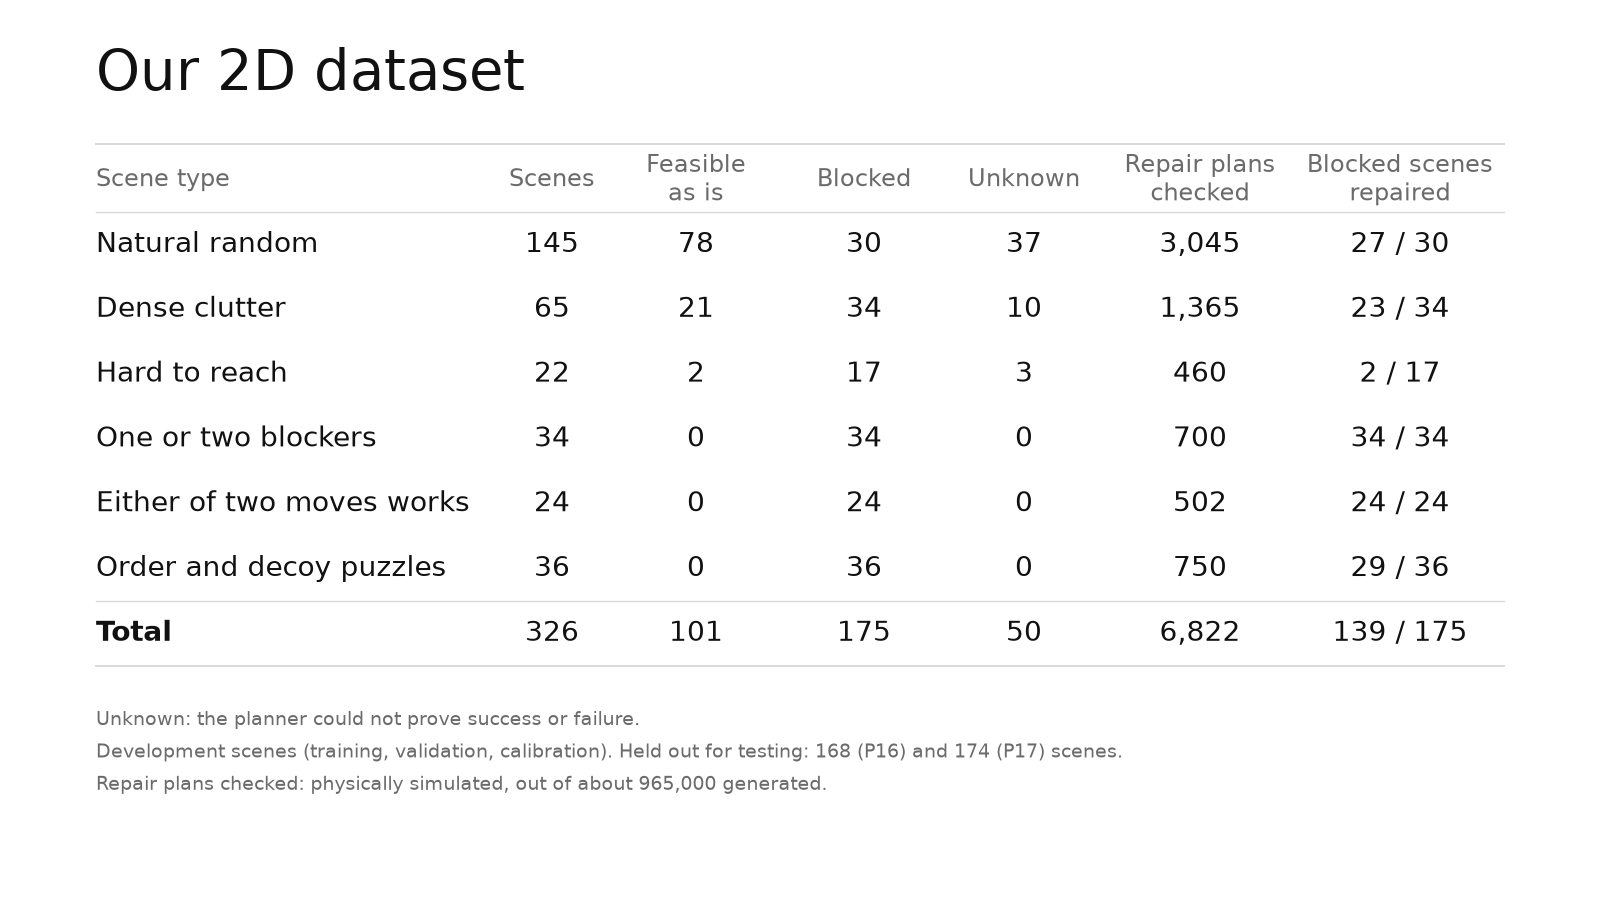
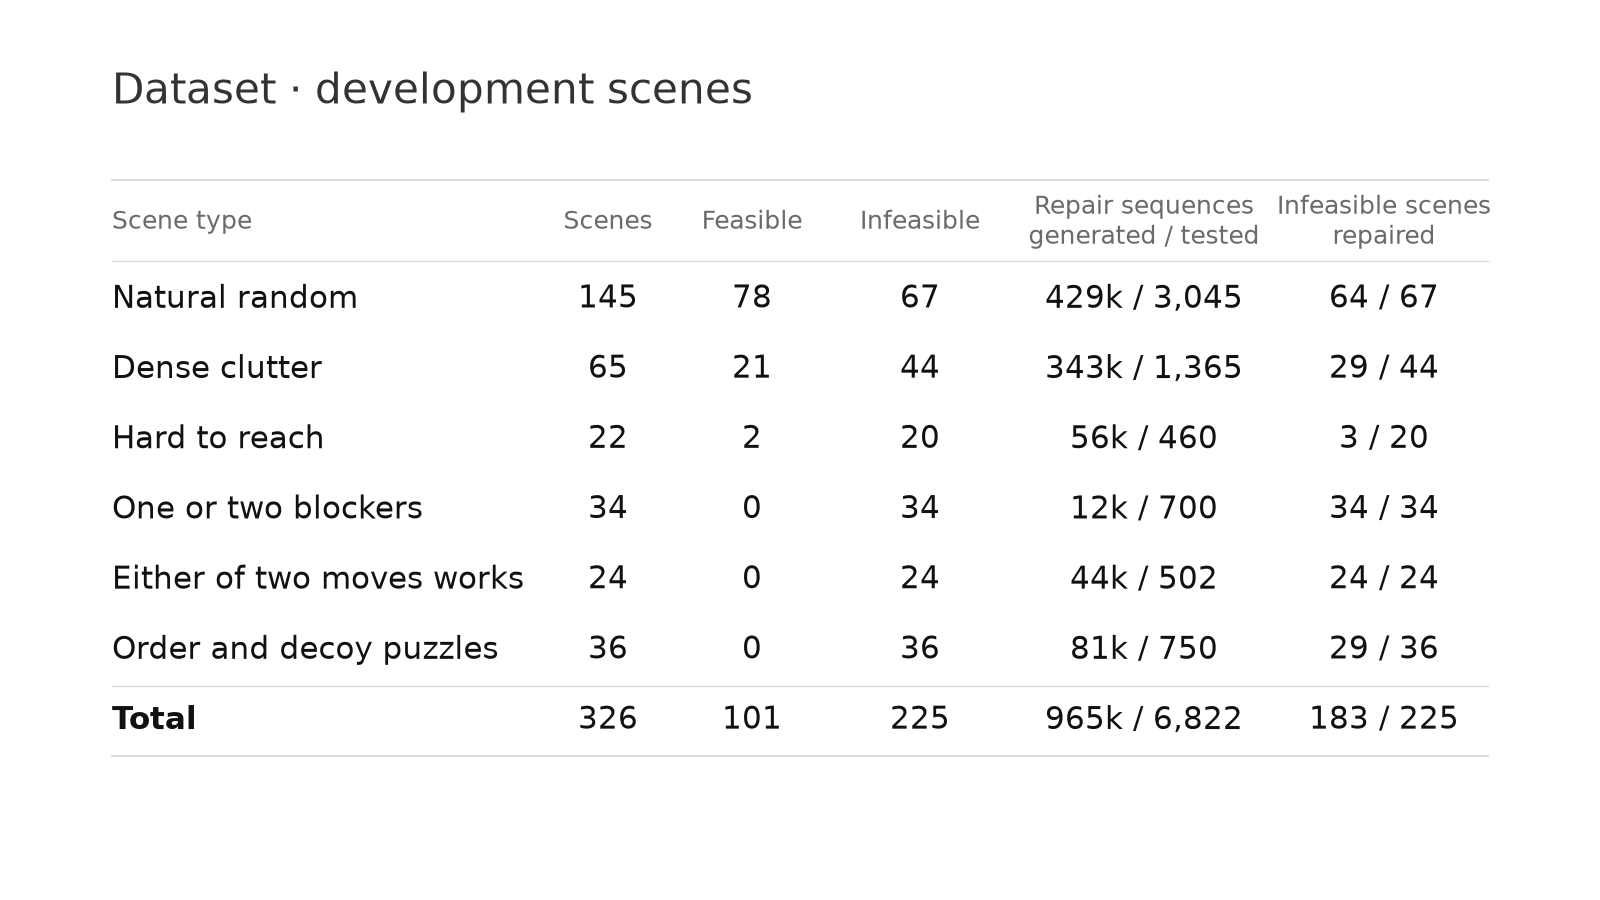
PoC-takeaway: operational feasible/infeasible convention; results as detection / false alarms / resolution (P16 A-C, D pending until P17 matched roster); compact factor ablations; dataset two-class

diff --git a/PoC-takeaway/build.py b/PoC-takeaway/build.py
@@ -205,12 +205,12 @@ def scenes():
 TXT, GREY, RULE = "#111111", "#6b6b6b", "#d9d9d9"
 
 
-def paper_table(name, heading, cols, body, notes=(), fs=21, row_h=0.075):
-    """Plain research-paper table on white: heading, thin light-grey horizontal rules only, optional italic group lines, small grey notes.
-    cols = [(label, width as figure fraction, 'left' | 'center')]; body = rows (lists of str) or ('group', text) / ('rule',)."""
+def paper_table(name, heading, cols, body, fs=24, row_h=0.085):
+    """Title + plain table on white: thin light-grey horizontal rules only, no notes. cols = [(label, width fraction, 'left' | 'center')];
+    body = rows (lists of str) or ('rule',)."""
     fig = plt.figure(figsize=(W, H), facecolor="white")
-    x0 = 0.06
-    fig.text(x0, 0.90, heading, fontsize=40, color=TXT, va="baseline")
+    x0 = 0.07
+    fig.text(x0, 0.885, heading, fontsize=30, color="#333333", va="baseline")
     xs = [x0]
     for _, w, _ in cols:
         xs.append(xs[-1] + w)
@@ -218,35 +218,34 @@ def paper_table(name, heading, cols, body, notes=(), fs=21, row_h=0.075):
     line = lambda y, lw=1.0: fig.add_artist(plt.Line2D([x0, x1], [y, y], color=RULE, lw=lw))  # noqa: E731
     cell = lambda j, y, t, **k: fig.text(xs[j] if cols[j][2] == "left" else (xs[j] + xs[j + 1]) / 2, y, t, ha=cols[j][2],  # noqa: E731
                                          va="center", **k)
-    y = 0.80
-    line(y + row_h * 0.55, 1.4)
+    n = sum(1 for r in body if r[0] != "rule") + 1
+    y = min(0.5 + (n * row_h) / 2 - row_h / 2 - 0.02, 0.76)            # table block centred under the title, never above 0.76
+    line(y + row_h * 0.6, 1.3)
     for j, (lab, _, _) in enumerate(cols):
-        cell(j, y, lab, fontsize=fs - 3, color=GREY)
-    line(y - row_h * 0.5)
-    y -= row_h
+        cell(j, y, lab, fontsize=fs - 4, color=GREY)
+    line(y - row_h * 0.55)
+    y -= row_h * 1.1
     for r in body:
-        if r[0] == "group":
-            y -= row_h * 0.12
-            fig.text(x0, y, r[1], fontsize=fs - 4, color=GREY, style="italic", va="center")
-            y -= row_h * 0.8
-            continue
         if r[0] == "rule":
             line(y + row_h * 0.5)
             continue
-        bold = r[0] == "Total"
         for j, t in enumerate(r):
-            cell(j, y, t, fontsize=fs, color=TXT, weight="bold" if bold and j == 0 else "normal")
+            cell(j, y, t, fontsize=fs, color=TXT, weight="bold" if r[0] == "Total" and j == 0 else "normal")
         y -= row_h
-    line(y + row_h * 0.5, 1.4)
-    for i, n in enumerate(notes):
-        fig.text(x0, y + row_h * 0.5 - 0.06 - i * 0.036, n, fontsize=14, color=GREY, va="center")
+    line(y + row_h * 0.5, 1.3)
     fig.savefig(HERE / name, dpi=DPI, facecolor="white")
     plt.close(fig)
     print("wrote", HERE / name)
 
 
-def pct(k, n):
-    return f"{k} / {n} ({round(100 * k / n)}%)"
+def pc(k, n):
+    return f"{int(100 * k / n + 0.5)}% ({k}/{n})" if n else "Pending"         # round half up
+
+
+def feasible(status, replay=True):
+    """Operational convention (takeaway only): FEASIBLE iff the recorded status is VERIFIED (+ replay where applicable); everything else
+    (CERTIFIED_INFEASIBLE, STATIC_INVALID, UNKNOWN_*, budget) counts as INFEASIBLE."""
+    return status == "VERIFIED" and bool(replay)
 
 
 # ------------------------------------------------------------------ 02 dataset
@@ -261,67 +260,78 @@ def dataset():
     order = list(dict.fromkeys(G.values()))
     agg = defaultdict(Counter)
     for v in L.values():
-        a, st = agg[G[v["family"]]], v["original"]["status"]
+        a, ok = agg[G[v["family"]]], feasible(v["original"]["status"])
         a["n"] += 1
-        a["feas" if st == "VERIFIED" else "inf" if st in DEC[1:] else "unk"] += 1
+        a["feas" if ok else "inf"] += 1
         a["gen"] += sum(n for m, n in v["catalogue"]["generated"].items() if m != "0")
         a["tested"] += len(v["sequences"])
-        if st in DEC[1:]:
-            a["rep"] += any(x.get("y") == 1 for x in v["sequences"].values())
+        if not ok:
+            a["rep"] += any(x.get("y") == 1 for x in v["sequences"].values())     # y = 1 <=> VERIFIED + replay CLEAR
     tot = sum(agg.values(), Counter())
-    test = {k: len(rd(p)["roots"]) for k, p in D["test_plans"].items()}
-    row = lambda g, a: [g, f"{a['n']}", f"{a['feas']}", f"{a['inf']}", f"{a['unk']}", f"{a['tested']:,}", f"{a['rep']} / {a['inf']}" if a["inf"] else "–"]  # noqa: E731
+    k = lambda n: f"{n / 1000:,.0f}k" if n >= 10000 else f"{n:,}"  # noqa: E731
+    row = lambda g, a: [g, f"{a['n']}", f"{a['feas']}", f"{a['inf']}", f"{k(a['gen'])} / {a['tested']:,}", f"{a['rep']} / {a['inf']}"]  # noqa: E731
     body = [row(g, agg[g]) for g in order] + [("rule",), row("Total", tot)]
-    cols = [("Scene type", 0.25, "left"), ("Scenes", 0.07, "center"), ("Feasible\nas is", 0.11, "center"), ("Blocked", 0.10, "center"),
-            ("Unknown", 0.10, "center"), ("Repair plans\nchecked", 0.12, "center"), ("Blocked scenes\nrepaired", 0.13, "center")]
-    paper_table("02_dataset.png", "Our 2D dataset", cols, body, notes=[
-        "Unknown: the planner could not prove success or failure.",
-        f"Development scenes (training, validation, calibration). Held out for testing: {test['P16 test']} (P16) and {test['P17 test']} (P17) scenes.",
-        f"Repair plans checked: physically simulated, out of about {round(tot['gen'], -3):,} generated."], fs=20, row_h=0.072)
-    return {"dev": dict(tot), "groups": {g: dict(agg[g]) for g in order}, "test": test}
+    cols = [("Scene type", 0.27, "left"), ("Scenes", 0.08, "center"), ("Feasible", 0.10, "center"), ("Infeasible", 0.11, "center"),
+            ("Repair sequences\ngenerated / tested", 0.17, "center"), ("Infeasible scenes\nrepaired", 0.13, "center")]
+    paper_table("02_dataset.png", "Dataset · development scenes", cols, body, fs=22, row_h=0.078)
+    return {"groups": {g: dict(agg[g]) for g in order}, "total": dict(tot)}
 
 
 # ------------------------------------------------------------------ 03 results
-def obs(t, P):
-    """'{arm.key}' -> per_arm[arm][key] (P16 B_TEST); '{feasible}' / '{infeasible}' -> cohort sizes."""
-    return re.sub(r"\{([^}]+)\}", lambda m: str(P["per_arm"][m.group(1).split(".")[0]][m.group(1).split(".")[1]]) if "." in m.group(1)
-                  else str(P[m.group(1)]), t)
+def score_rows(roots, arms, guide=None):
+    """roots: {root: {'original': status, 'b': {arm: {choice, status, replay}}, 'd': {guide: {found, replay, moves}}, 'd_pfeas': {guide: p}}}.
+    Returns {label: (detected, false alarms, resolved) as (k, n) pairs} plus the D 0-move-on-infeasible disagreement count."""
+    F = [r for r in roots.values() if feasible(r["original"])]
+    I = [r for r in roots.values() if not feasible(r["original"])]
+    out = {}
+    for lab, arm in arms.items():
+        flag = lambda r: not r["b"][arm]["choice"].endswith(":empty")  # noqa: E731  (a repair OR an abstention flags the scene as blocked)
+        fix = lambda r: flag(r) and r["b"][arm]["choice"] != "ABSTAIN" and feasible(r["b"][arm]["status"], r["b"][arm].get("replay"))  # noqa: E731
+        out[lab] = ((sum(map(flag, I)), len(I)), (sum(map(flag, F)), len(F)), (sum(map(fix, I)), len(I)))
+    zero = None
+    if guide:
+        ok = [r for r in roots.values() if guide in r.get("d", {}) and guide in r.get("d_pfeas", {})]
+        Fd, Id = [r for r in ok if feasible(r["original"])], [r for r in ok if not feasible(r["original"])]
+        blk = lambda r: r["d_pfeas"][guide] < 0.5  # noqa: E731
+        res = lambda r: bool(r["d"][guide]["found"] and r["d"][guide]["replay"] and r["d"][guide]["moves"] >= 1)  # noqa: E731
+        zero = sum(bool(r["d"][guide]["found"] and r["d"][guide]["moves"] == 0) for r in Id)
+        if ok:
+            out["D"] = ((sum(map(blk, Id)), len(Id)), (sum(map(blk, Fd)), len(Fd)), (sum(map(res, Id)), len(Id)))
+    return out, zero
 
 
 def results(p17=None):
     R = S["results"]
-    B, Dd = rd(R["b_file"]), rd(R["d_file"])
-    pend = "Pending"
+    arms = {k: v for k, v in R["arms"].items() if k != "D"}
+    if p17 and dig(p17, "matched"):
+        roots, title, guide = p17["matched"], "Results · P17 test", R["arms"]["D"]["p17"]
+        arms = {k: v["p17"] for k, v in arms.items()}
+    else:
+        rows = {}
+        for f in glob.glob(R["p16_rows"]):
+            rows.update(rd(f))
+        roots = {k: {"original": v["b"]["y0_status"], "b": v["b"]["arms"]} for k, v in rows.items() if "b" in v}
+        title, guide = "Results · P16 test", None
+        arms = {k: v["p16"] for k, v in arms.items()}
+    try:
+        sc, zero = score_rows(roots, arms, guide)
+    except (KeyError, TypeError) as e:                                    # defensive: an unexpected / missing field -> every cell Pending
+        print("results: missing field", e)
+        sc, zero = {}, None
     body = []
-    for grp in R["groups"]:
-        body.append(("group", grp["heading"]))
-        for r in grp["rows"]:
-            if grp["kind"] == "b":
-                x = B["per_arm"][r["arm"]]
-                v = pct(x["noop_correct"] + x["repair_success"], B["decided_roots"])
-                y = dig(p17, "b", "analysis", "per_arm", r["p17_arm"])
-                p = pct(round(y["strict_top1"] * y["n"]), y["n"]) if y and y.get("n") and y.get("strict_top1") is not None else pend
-                o = obs(r["observation"], B)
-            else:
-                x = Dd["per_guide"][r["arm"]]
-                v = pct(x["success"], x["n"])
-                y = dig(p17, "d", "all_roots", "per_guide", r["p17_arm"])
-                p = pct(y["success"], y["n"]) if y and y.get("n") else pend
-                o = r["observation"]
-            body.append([r["label"], v, o, p])
-    cols = [("Approach", 0.15, "left"), ("Success rate", 0.19, "left"), ("Main observation", 0.44, "left"), ("P17 test", 0.10, "left")]
-    nf, n = B["feasible"], B["decided_roots"]
-    paper_table("03_results.png", "What worked", cols, body, fs=20, notes=[
-        f"Doing nothing succeeds on {B['per_arm']['empty_always']['noop_correct']} / {n} (every feasible scene); A–C do not beat this baseline.",
-        f"D solves a different task, so it is not comparable with A–C. {Dd['common_roots']} of 48 planned D scenes were run before the compute cap.",
-        "Success: the chosen plan, or the choice to do nothing, is physically verified."], row_h=0.085)
+    for lab in ("A", "B", "C", "D"):
+        x = sc.get(lab)
+        body.append([f"Approach {lab}", *(pc(*c) for c in x)] if x else [f"Approach {lab}", "Pending", "Pending", "Pending"])
+    cols = [("Approach", 0.22, "left"), ("Blockage detected ↑", 0.22, "center"), ("False alarms ↓", 0.20, "center"), ("Blockage resolved ↑", 0.22, "center")]
+    paper_table("03_results.png", title, cols, body, fs=25, row_h=0.10)
+    return {"cohort": title, "rows": {k: v for k, v in sc.items()}, "d_zero_move_on_infeasible": zero}
 
 
 # ------------------------------------------------------------------ 04 ablations
 def ablations(p17=None):
-    body = [[r["approach"], r["tested"], r["finding"]] for r in S["ablations"]["rows"]]
-    cols = [("Approach", 0.15, "left"), ("What we tested", 0.40, "left"), ("Finding", 0.33, "left")]
-    paper_table("04_ablations.png", "What the ablations taught us", cols, body, notes=S["ablations"]["notes"], fs=21, row_h=0.085)
+    body = [[r["approach"], r["factor"], r["finding"]] for r in S["ablations"]["rows"]]
+    cols = [("Approach", 0.20, "left"), ("Factor", 0.36, "left"), ("Finding", 0.30, "left")]
+    paper_table("04_ablations.png", "Ablations", cols, body, fs=22, row_h=0.062)
 
 
 # ------------------------------------------------------------------ GIFs (certified motion only)
@@ -612,10 +622,13 @@ def main():
         if not ok:
             raise SystemExit(f"--refresh-p17 refused: {why}")
         pr, re_ = rd(S["results"]["p17"]["prospective"]), rd(S["results"]["p17"]["retrospective"])
-        p17 = {"b": pr.get("b"), "d": pr.get("d"), "retro": re_}
+        p17 = {"b": pr.get("b"), "d": pr.get("d"), "retro": re_, "matched": pr.get("matched")}
     scenes()
     dataset()
-    results(p17)
+    out = results(p17)
+    if p17:                                                               # record the P17 denominators next to the configuration (folder-local)
+        S["results"]["computed_p17"] = out
+        (HERE / "sources.json").write_text(json.dumps(S, indent=1, ensure_ascii=False) + "\n")
     ablations(p17)
     if not a.no_gifs:
         gifs(p17=a.refresh_p17)
